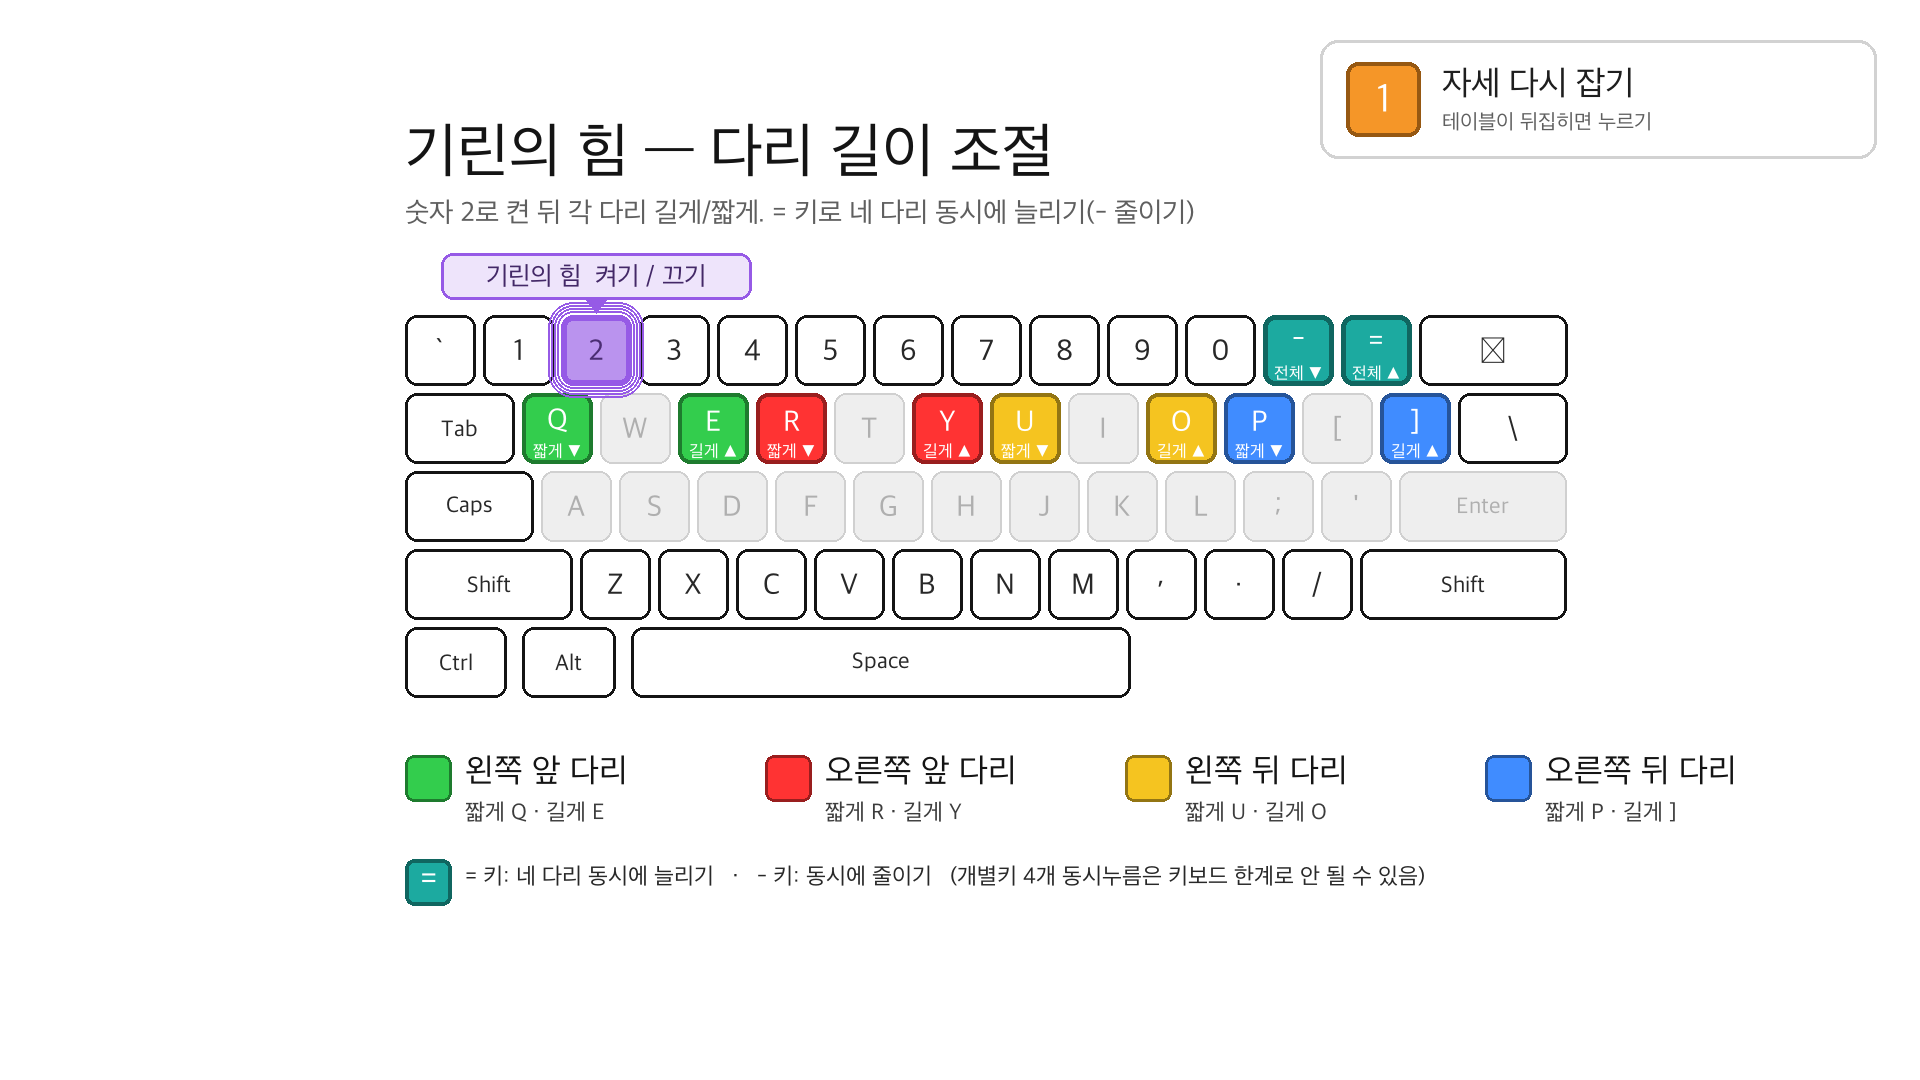
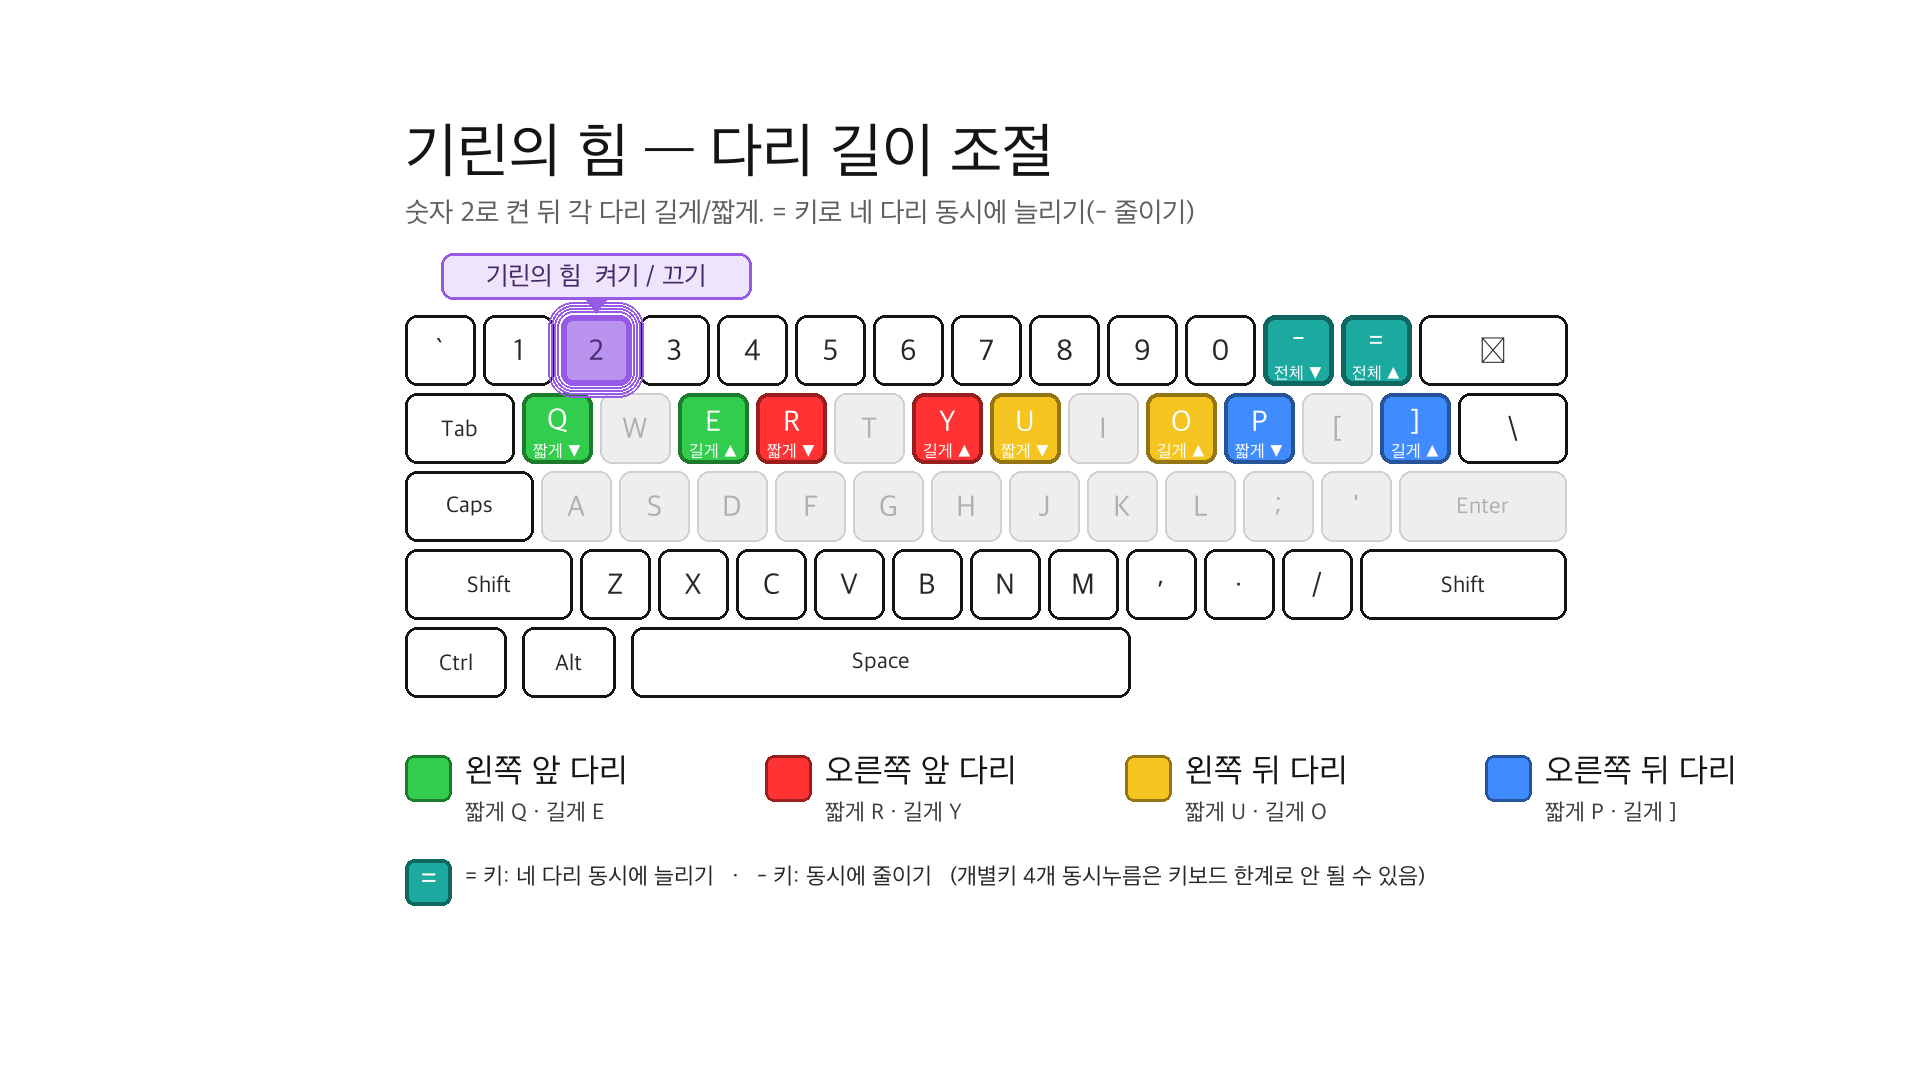
'1' 자세 리셋 폐지 → F1 다시 시작 + 뒤집힘 [다시 시작] 버튼
- ArtSceneReset: '1' 키 제거, F1 = Restart()(처음 스폰 위치 재스폰,
  지면 스캔은 초기 높이+2 — 빙산 동굴 지붕 회피). 뒤집힘 2초 정착 시
  '뒤집혔어요!' + [다시 시작 (F1)] 클릭 버튼(Mouse.current 판정)
- 정글 예외: JungleStage.RestartRespawn — 용암 강을 건넌 뒤면 '지금
  있던 쪽' 안전 지점(체크포인트 규칙), 안 건넜으면 스폰 해변
- SceneReset(레거시)도 '1'→F1(ResetAll)로 통일, 배너 문구 변경
- 조작법 이미지 4장 우상단 '1=자세 다시 잡기' 배지 제거(PNG 흰 채움)
- disableManualReset(축구 등 규칙 씬)은 F1/버튼 모두 차단
- 검증: Hallway 뒤집기→버튼 표시→initPos 직립 복귀, 정글 안 건넘=해변/
  건넘=건너편 유지 리스폰, 에러 0

Changed region(s): [[0.6875, 0.0306, 0.8438, 0.1528]]

diff --git a/Assets/Scripts/ArtSceneReset.cs b/Assets/Scripts/ArtSceneReset.cs
@@ -2,13 +2,15 @@ using UnityEngine;
 using UnityEngine.InputSystem;
 
 /// <summary>
-/// ArticulationBody 테이블용 리셋/리스폰 — 본게임 SceneReset의 상호작용을 충실히 재현. 테이블 루트에 부착.
-/// - '1' = 지금 자리(XZ)에서 자세만 복원. ★yaw는 '카메라가 보는 방향'으로 정렬(원본과 동일 —
-///   기울어진 상태의 eulerAngles.y 는 부정확해 다리-카메라 매핑이 틀어지므로 카메라 기준. 리셋 후 항상 WASD 다리가 화면 먼왼쪽).
-/// - ResetPoseAtXZ = 용암 리스폰 등: 지정 XZ의 땅 위에 복원(500 높이에서 스캔 — 다른 고지대로 보내는 경우 대비).
-/// - lift = 콜라이더 기하 1회 측정(boardClearance + tableHeight × groundLiftFactor) — 원본 공식.
+/// ArticulationBody 테이블용 리셋/리스폰. 테이블 루트에 부착.
+/// ★2026-07-12 개편(사용자 요청): '1' 제자리 자세 복원 폐지 → **F1 = 다시 시작(처음 스폰 위치 리스폰)**.
+/// - F1 또는 뒤집힘 배너의 [다시 시작] 버튼 = Restart(): 초기 스폰 XZ에 리스폰(스캔은 초기 높이 바로 위에서 —
+///   빙산 동굴처럼 지붕 있는 곳에서 지붕 위로 안 올라가게). 정글은 JungleStage.RestartRespawn이 가로채
+///   강을 건넌 뒤면 '지금 있던 쪽' 안전 지점(체크포인트 규칙)에 리스폰.
+/// - ResetPoseAtXZ = 용암/추락 리스폰 등: 지정 XZ의 땅 위에 복원. yaw는 카메라 방향(조작-화면 매핑 일관).
+/// - lift = 콜라이더 기하 1회 측정(boardClearance + tableHeight × groundLiftFactor).
 /// - 다리 ResetState + HoldVertical(0.4s), GiraffeMode.ResetLegs(늘어난 길이 초기화).
-/// - 뒤집힘 2초(+정착) 시 'Press 1' 배너.
+/// - 뒤집힘 2초(+정착) 시 [다시 시작 (F1)] 버튼 배너(클릭은 Mouse.current — PauseMenu 패턴).
 /// </summary>
 public class ArtSceneReset : MonoBehaviour
 {
@@ -27,7 +29,7 @@ public class ArtSceneReset : MonoBehaviour
     public float watchdogMinY = -150f;
     [Tooltip("리셋 시 아래에 지면이 없으면 현재 높이 유지(무중력 씬용). false=기존 동작(스캔 높이/폴백).")]
     public bool keepYIfNoGround = false;
-    [Tooltip("★'1' 수동 리셋 차단(축구 등 규칙 씬 — 골이 나야만 재배치). 워치독/뒤집힘 복구는 유지.")]
+    [Tooltip("★F1 다시 시작 차단(축구 등 규칙 씬 — 골이 나야만 재배치). 워치독/뒤집힘 복구는 유지.")]
     public bool disableManualReset = false;
 
     ArticulationBody root;
@@ -36,7 +38,8 @@ public class ArtSceneReset : MonoBehaviour
     float tableHeight = 0.8f, boardClearance = 0.75f;   // MeasureGeometry로 갱신
     float flippedTime;
     Vector2 lastGoodXZ; bool haveGoodXZ;                 // NaN/폭발 워치독용(원본 SceneReset 이식)
-    GUIStyle bannerStyle, bannerSub;
+    Vector3 initPos;                                     // F1 다시 시작용 초기 스폰(루트 위치, Awake 캡처)
+    GUIStyle bannerStyle, bannerSub, btnLabel;
     Texture2D white;
 
     void Awake()
@@ -45,6 +48,7 @@ public class ArtSceneReset : MonoBehaviour
         foreach (var ab in bodies)
             if (ab.isRoot) { root = ab; break; }
         legs = GetComponentsInChildren<ArtLegController>(true);
+        if (root != null) initPos = root.transform.position;
         MeasureGeometry();
     }
 
@@ -104,33 +108,67 @@ public class ArtSceneReset : MonoBehaviour
     {
         var kb = Keyboard.current;
         if (kb == null || root == null) return;
-        if (!disableManualReset && kb.digit1Key.wasPressedThisFrame) ResetPoseInPlace();
+        if (!disableManualReset && kb.f1Key.wasPressedThisFrame) Restart();
 
         // 뒤집힘 감지(원본: 많이 누움 + 거의 정지일 때만 카운트 → 구르는 중 오탐 방지)
         bool flipped = Vector3.Dot(root.transform.up, Vector3.up) < flipDot
                        && root.linearVelocity.magnitude < flipCalmSpeed
                        && root.angularVelocity.magnitude < flipCalmSpeed;
         flippedTime = flipped ? flippedTime + Time.deltaTime : 0f;
+
+        // 뒤집힘 배너의 [다시 시작] 버튼 클릭 — GUI.Button은 새 입력시스템에서 안 먹어 Mouse.current로 직접(PauseMenu 패턴)
+        var mouse = Mouse.current;
+        if (!disableManualReset && flippedTime >= flipPromptDelay && mouse != null && mouse.leftButton.wasPressedThisFrame)
+        {
+            Vector2 p = mouse.position.ReadValue();
+            Vector2 gm = new Vector2(p.x, Screen.height - p.y);   // 좌하 원점 → GUI 좌상 원점
+            if (RestartBtnRect().Contains(gm)) Restart();
+        }
+    }
+
+    Rect BannerRect() => new Rect((Screen.width - 372f) * 0.5f, Screen.height * 0.18f, 372f, 112f);
+    Rect RestartBtnRect()
+    {
+        var r = BannerRect();
+        return new Rect(r.x + r.width * 0.5f - 110f, r.y + 56f, 220f, 42f);
     }
 
     void OnGUI()
     {
         UiKit.ApplyKoreanFont();   // 웹(WebGL) 한글 폰트
+        if (disableManualReset) return;
         if (flippedTime < flipPromptDelay) return;
         if (bannerStyle == null)
         {
             white = Texture2D.whiteTexture;
             Color ink = new Color(0.08f, 0.08f, 0.08f, 1f);
-            bannerStyle = new GUIStyle(GUI.skin.label) { fontSize = 29, fontStyle = FontStyle.Bold, alignment = TextAnchor.MiddleCenter };
+            bannerStyle = new GUIStyle(GUI.skin.label) { fontSize = 26, fontStyle = FontStyle.Bold, alignment = TextAnchor.MiddleCenter };
             bannerStyle.normal.textColor = ink;
             bannerSub = new GUIStyle(GUI.skin.label) { fontSize = 15, alignment = TextAnchor.MiddleCenter };
             bannerSub.normal.textColor = new Color(0.3f, 0.3f, 0.3f, 1f);
+            btnLabel = new GUIStyle(GUI.skin.label) { fontSize = 19, fontStyle = FontStyle.Bold, alignment = TextAnchor.MiddleCenter };
+            btnLabel.normal.textColor = ink;
         }
-        float w = 372f, h = 80f;
-        var r = new Rect((Screen.width - w) * 0.5f, Screen.height * 0.18f, w, h);
+        var r = BannerRect();
         UiKit.Panel(r, 0.95f);   // 흰 배경 + 얇은 검은 테두리(통일 스타일)
-        GUI.Label(new Rect(r.x, r.y + 8f, r.width, 36f), "Press 1", bannerStyle);
-        GUI.Label(new Rect(r.x, r.y + 46f, r.width, 24f), "뒤집혔어요 — 1 키로 자세 복구", bannerSub);
+        GUI.Label(new Rect(r.x, r.y + 8f, r.width, 34f), "뒤집혔어요!", bannerStyle);
+
+        var btn = RestartBtnRect();
+        bool hover = btn.Contains(Event.current.mousePosition);
+        UiKit.Panel(btn);
+        if (hover) UiKit.Fill(btn, new Color(0f, 0f, 0f, 0.10f));
+        GUI.Label(btn, "다시 시작 (F1)", btnLabel);
+    }
+
+    /// <summary>F1/[다시 시작] 버튼: 처음 스폰 위치에서 재스폰. 정글은 강을 건넌 뒤면
+    /// JungleStage가 '지금 있던 쪽' 안전 지점(체크포인트 규칙)으로 가로챈다.</summary>
+    public void Restart()
+    {
+        if (root == null || disableManualReset) return;
+        var js = Object.FindAnyObjectByType<JungleStage>();
+        if (js != null && js.RestartRespawn(this)) return;
+        // 스캔을 '초기 높이 바로 위'에서 → 빙산 동굴처럼 지붕 있는 스폰에서 지붕 위로 안 올라감.
+        ResetPoseAtXZ(initPos.x, initPos.z, initPos.y + 2f);
     }
 
     /// <summary>'1': 지금 자리(XZ)·카메라 방향(yaw) 유지, 기울기/다리만 똑바로.

diff --git a/Assets/Scripts/JungleStage.cs b/Assets/Scripts/JungleStage.cs
@@ -213,6 +213,26 @@ public class JungleStage : MonoBehaviour
         return null;
     }
 
+    /// <summary>★F1 '다시 시작'(2026-07-12): 용암 강을 건넌 뒤면 '지금 있던 쪽'의 안전 지점
+    /// (용암 사망 리스폰과 같은 체크포인트 규칙), 아직 안 건넜으면 처음 스폰(해변). true=정글이 처리함.</summary>
+    public bool RestartRespawn(ArtSceneReset reset)
+    {
+        if (island == null || reset == null) return false;
+        ignoreUntil = Time.time + respawnCooldown;   // 리스폰 직후 용암 판정 유예(기존 리스폰과 동일)
+        float spawnSide = island.SignedSideOfRiver(spawnPoint.x, spawnPoint.z);
+        if (lastSafeSide != spawnSide)
+        {
+            Vector2 cur = tableTop != null ? new Vector2(tableTop.position.x, tableTop.position.z)
+                        : table != null ? new Vector2(table.position.x, table.position.z)
+                        : new Vector2(spawnPoint.x, spawnPoint.z);
+            Vector3 safe = FindNearestSafe(cur, lastSafeSide);
+            reset.ResetPoseAtXZ(safe.x, safe.z, safe.y + 3f);   // 낮은 스캔 = 야자수 위에 안 얹힘
+        }
+        else
+            reset.ResetPoseAtXZ(spawnPoint.x, spawnPoint.z);    // 처음 스폰 해변(트인 하늘)
+        return true;
+    }
+
     void Respawn()
     {
         ignoreUntil = Time.time + respawnCooldown;

diff --git a/Assets/Scripts/SceneReset.cs b/Assets/Scripts/SceneReset.cs
@@ -129,8 +129,8 @@ public class SceneReset : MonoBehaviour
     void Update()
     {
         var kb = Keyboard.current;
-        if (kb != null && kb.digit1Key.wasPressedThisFrame)
-            ResetPoseInPlace();
+        if (kb != null && kb.f1Key.wasPressedThisFrame)   // ★'1' 자세 복원 폐지 → F1 = 처음 스폰에서 다시 시작
+            ResetAll();
 
         // 뒤집힘 감지: 상판이 '많이 누운' 채 '거의 멈춰'(정착) 있어야 타이머 시작.
         // 구르는 중·일시적 기울임엔 시작 안 함 → 너무 자주 뜨던 문제 해결.
@@ -318,8 +318,8 @@ public class SceneReset : MonoBehaviour
         GUI.DrawTexture(new Rect(x, y, w, 4f), flipTex);                 // 상단 강조선
         GUI.color = prev;
 
-        GUI.Label(new Rect(x, y + 10f, w, 40f), "Press \"1\"", flipBig);
-        GUI.Label(new Rect(x, y + 48f, w, 24f), "테이블이 뒤집혔어요 — 자세 다시 잡기", flipSmall);
+        GUI.Label(new Rect(x, y + 10f, w, 40f), "F1 — 다시 시작", flipBig);
+        GUI.Label(new Rect(x, y + 48f, w, 24f), "테이블이 뒤집혔어요", flipSmall);
     }
 
     void EnsureFlipStyles()

diff --git a/CLAUDE.md b/CLAUDE.md
@@ -1,5 +1,11 @@
 # 프로젝트 메모 (we are table)
 
+## ★2026-07-12 '1' 자세 리셋 폐지 → F1 = 다시 시작
+- **'1' 키(제자리 자세 복원) 전면 제거**(사용자 요청): ArtSceneReset/SceneReset 키 핸들러 삭제, **조작법 이미지 4장(Guide/Controls*.png)의 우상단 '1=자세 다시 잡기' 배지도 PIL로 지움**(배지는 코드 오버레이가 아니라 PNG에 구워져 있었음 — 흰 채움, 1920 기준 좌표는 git 이력 참조).
+- **F1 = 다시 시작**: `ArtSceneReset.Restart()` — **처음 스폰 위치(Awake 캡처 initPos XZ)에 재스폰**, 지면 스캔은 `initPos.y+2`에서(빙산 동굴 지붕 위로 안 올라감). **정글 예외**: `JungleStage.RestartRespawn()`이 가로채 — **용암 강을 건넌 뒤면(lastSafeSide≠spawnSide) '지금 있던 쪽'의 안전 지점**(용암 사망 리스폰과 같은 FindNearestSafe 규칙, 스캔 h+3=야자수 회피), 안 건넜으면 spawnPoint 해변. disableManualReset(축구 등)이면 F1/버튼 차단.
+- **뒤집힘 배너 개편**: 뒤집힘 2초 정착 시 "뒤집혔어요!" + **[다시 시작 (F1)] 클릭 버튼**(IMGUI GUI.Button은 새 입력시스템에서 안 먹음 — Update에서 Mouse.current+좌표 y플립으로 클릭 판정, PauseMenu 패턴). ResetPoseInPlace는 코드에 남아 있으나 키 바인딩 없음.
+- 검증: Hallway 뒤집기→배너/버튼 표시→Restart로 initPos 직립 복귀 ✓, 정글 안 건넘=스폰 해변·건넘=건너편 유지 ✓, 에러 0.
+
 ## 재사용 컴포넌트: 누르는 버튼 (PressButton)
 무게로 눌리는 물리 버튼. **다른 맵/위치에서도 재사용**한다.
 
@@ -226,7 +232,7 @@
 - **3종 빌드 방법**(에디터 열린 채 RunCommand에서 BuildPipeline.BuildPlayer **동기 호출** — delayCall은 유실됨, 동기는 MCP가 완주를 기다림): macOS(.app)/Windows x64(Mono — Mac에서 IL2CPP 크로스 불가)/WebGL. **WebGL은 itch.io용으로 `PlayerSettings.WebGL.compressionFormat=Gzip` + `decompressionFallback=true`**(서버 설정 불필요). 산출물 `Builds/`(gitignore): Mac 187M / Windows 169M / Web 38M + `we-are-table-web-itch.zip`(index.html이 zip 루트). 빌드 후 액티브 타깃 macOS 원복(SwitchActiveBuildTargetAsync). ⚠WebGL에선 UnityTransport(UDP) 미지원 — 멀티(방 만들기/참가)는 웹 빌드에서 동작 안 함(싱글 플로우는 정상).
 
 ## 일시정지 메뉴 / 다리 색(X-ray)
-- **PauseMenu** (`Assets/Scripts/PauseMenu.cs`): `ESC` 토글로 일시정지(`Time.timeScale=0`). IMGUI로 그리되 **클릭/슬라이더는 `Mouse.current`로 직접 처리**(New Input System 전용이라 `GUI.Button` 클릭이 안 먹음). 메뉴(영어): Resume / **볼륨 슬라이더 3개**(Master=`AudioListener.volume` · BGM=`Bgm.Volume` · SFX=`Sfx.Volume`, 모두 전역 static이라 모든 옵션 메뉴·씬 공유, `dragSlider` int로 드래그 구분) / Color ON·OFF / **Controls(조작법)** / **Restart(현재 씬 처음부터, `LoadScene(GetActiveScene().name)`)** / Main Menu(StartScreen). (조작법 이미지 2장 모두 우측 상단에 `1=자세 다시 잡기` 배지 오버레이.) **버튼·슬라이더가 아닌 바깥 아무데나 클릭하면 창이 닫힘**(모든 씬). **조작법 화면**: `showControls` 전체화면 오버레이 → **현재 해금된 조작 이미지만** 페이지로(`CtrlPages` — ★2026-07-08 리스트 방식으로 재작성: 기본=`controlsMove`=Controls.png 항상 / 기린=`controlsGiraffe`=ControlsGiraffe.png는 `GiraffeMode.Unlocked` static일 때만 / **우주오징어=`controlsSquid`=Guide/ControlsSquid.png는 `SquidMode.Unlocked` static일 때만** — SquidMode.Update의 active 경로에서 true). 여러 장이면 ◀이전/다음▶ + 닫기. ESC는 조작법 화면이면 메뉴로 복귀(언포즈 안 함). 두 Texture2D는 **Table.prefab의 PauseMenu에 할당**(전 씬 인스턴스 상속). `GiraffeMode.Unlocked`=기린 힘 컷신 부여(GiraffeCutscene의 `locked=false` 지점) 또는 `active` 켜질 때 true. ⚠ 메뉴를 연 그 프레임의 클릭은 무시(`openedFrame` 가드) — 표지판/ESC로 연 클릭이 곧바로 '바깥 클릭'으로 처리돼 즉시 닫히는 것 방지. 외부에서 열기: `OpenMenu()`(StartScreen 옵션 표지판). 시작 화면 additive 배경에선 비활성(`gameObject.scene != activeScene` 가드).
+- **PauseMenu** (`Assets/Scripts/PauseMenu.cs`): `ESC` 토글로 일시정지(`Time.timeScale=0`). IMGUI로 그리되 **클릭/슬라이더는 `Mouse.current`로 직접 처리**(New Input System 전용이라 `GUI.Button` 클릭이 안 먹음). 메뉴(영어): Resume / **볼륨 슬라이더 3개**(Master=`AudioListener.volume` · BGM=`Bgm.Volume` · SFX=`Sfx.Volume`, 모두 전역 static이라 모든 옵션 메뉴·씬 공유, `dragSlider` int로 드래그 구분) / Color ON·OFF / **Controls(조작법)** / **Restart(현재 씬 처음부터, `LoadScene(GetActiveScene().name)`)** / Main Menu(StartScreen). (~~조작법 이미지 우상단 `1=자세 다시 잡기` 배지~~ — 2026-07-12 이미지에서 제거, '1' 리셋 폐지.) **버튼·슬라이더가 아닌 바깥 아무데나 클릭하면 창이 닫힘**(모든 씬). **조작법 화면**: `showControls` 전체화면 오버레이 → **현재 해금된 조작 이미지만** 페이지로(`CtrlPages` — ★2026-07-08 리스트 방식으로 재작성: 기본=`controlsMove`=Controls.png 항상 / 기린=`controlsGiraffe`=ControlsGiraffe.png는 `GiraffeMode.Unlocked` static일 때만 / **우주오징어=`controlsSquid`=Guide/ControlsSquid.png는 `SquidMode.Unlocked` static일 때만** — SquidMode.Update의 active 경로에서 true). 여러 장이면 ◀이전/다음▶ + 닫기. ESC는 조작법 화면이면 메뉴로 복귀(언포즈 안 함). 두 Texture2D는 **Table.prefab의 PauseMenu에 할당**(전 씬 인스턴스 상속). `GiraffeMode.Unlocked`=기린 힘 컷신 부여(GiraffeCutscene의 `locked=false` 지점) 또는 `active` 켜질 때 true. ⚠ 메뉴를 연 그 프레임의 클릭은 무시(`openedFrame` 가드) — 표지판/ESC로 연 클릭이 곧바로 '바깥 클릭'으로 처리돼 즉시 닫히는 것 방지. 외부에서 열기: `OpenMenu()`(StartScreen 옵션 표지판). 시작 화면 additive 배경에선 비활성(`gameObject.scene != activeScene` 가드).
 - ⚠ `ESC`는 PauseMenu 전용. **CameraFollow의 ESC 커서토글은 제거**(충돌 방지). 일시정지=커서 표시, 복귀=커서 Locked(마우스 시점 복원).
 - **LegColorXray** (`Assets/Scripts/LegColorXray.cs`): 다리 4개(Leg_FR/FL/BR/BL)를 이름으로 찾아 박스 12모서리를 그림. **모서리마다 독립된 2점 LineRenderer**(다리당 12개) — 한 붓 그리기 경로의 "꼬임" 방지. 색 FR=빨강·FL=초록·BR=파랑·BL=노랑(기본 off, 메뉴에서 토글). 선명한 단색 선이며, X-ray는 `Assets/Shaders/XrayLine.shader`(ZTest Always, queue Overlay)로 몸통을 통과해 항상 화면 위에 보임. 다리는 씬마다 별도 루트라 **이름 전역 검색**(`GameObject.Find`)으로 찾음.
 - 두 컴포넌트는 `Table.prefab`의 TablePlayer 루트(fileID 9100000010/9100000020)에 부착 → 모든 씬이 프리팹 인스턴스라 자동 상속(이제 씬별 별도 부착 불필요).
